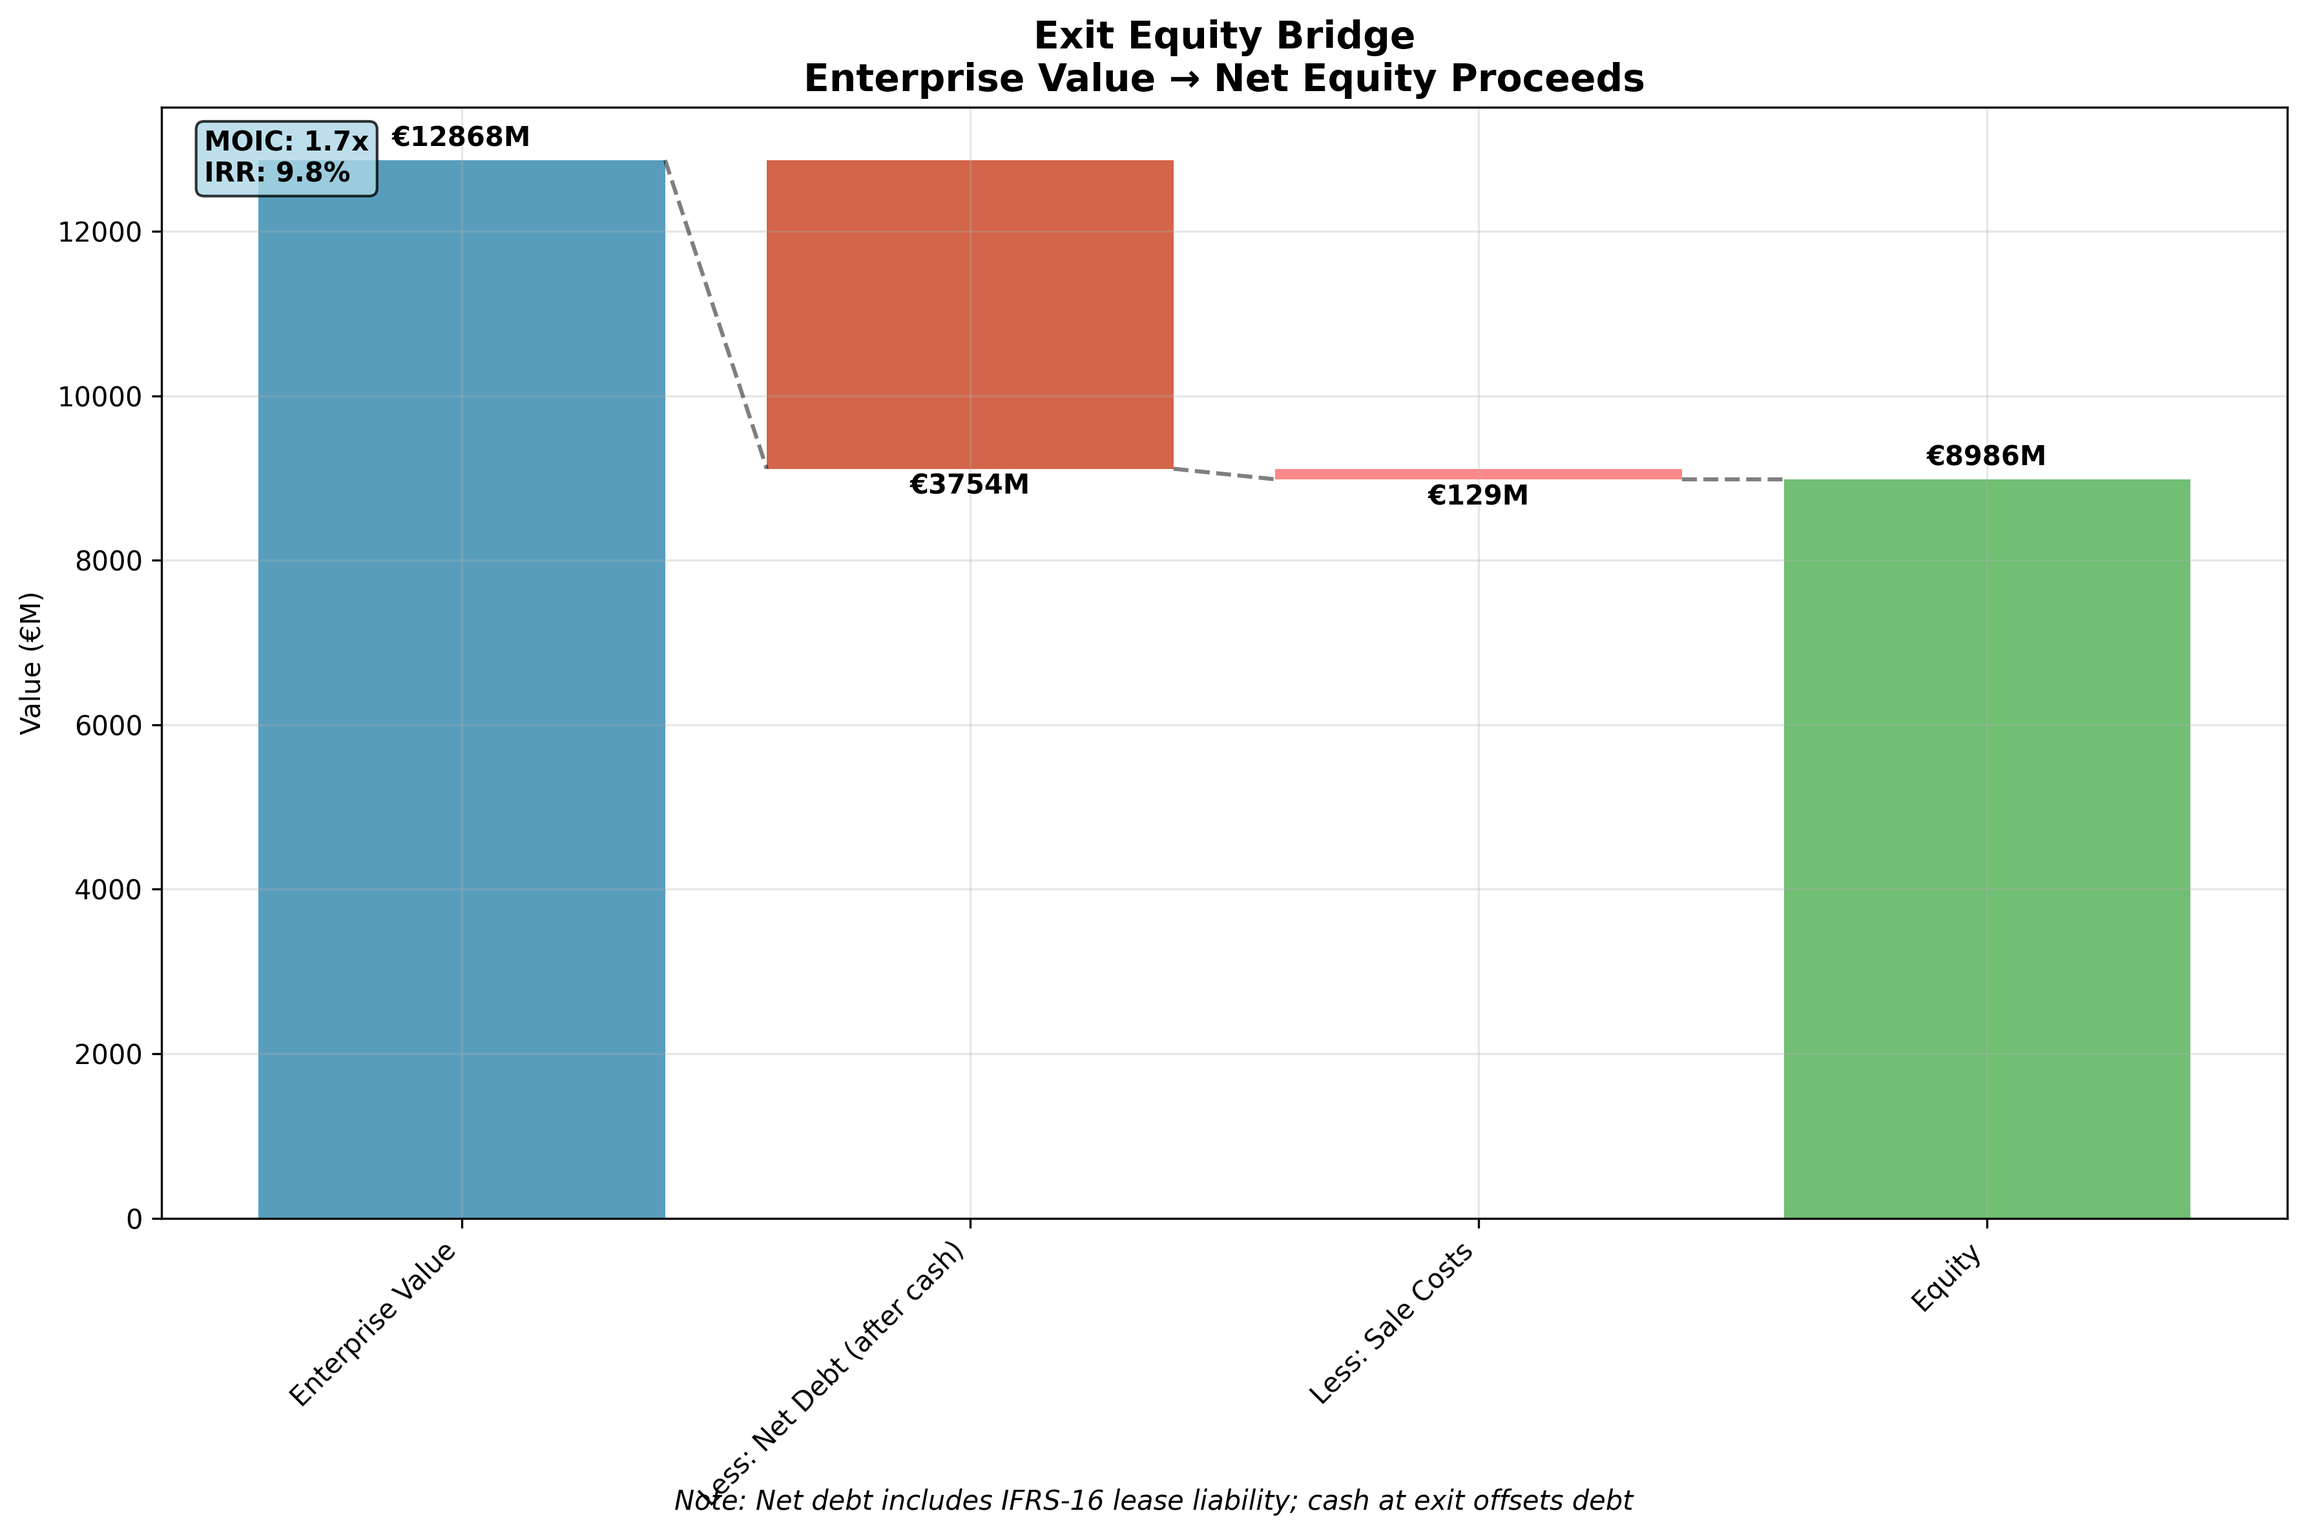
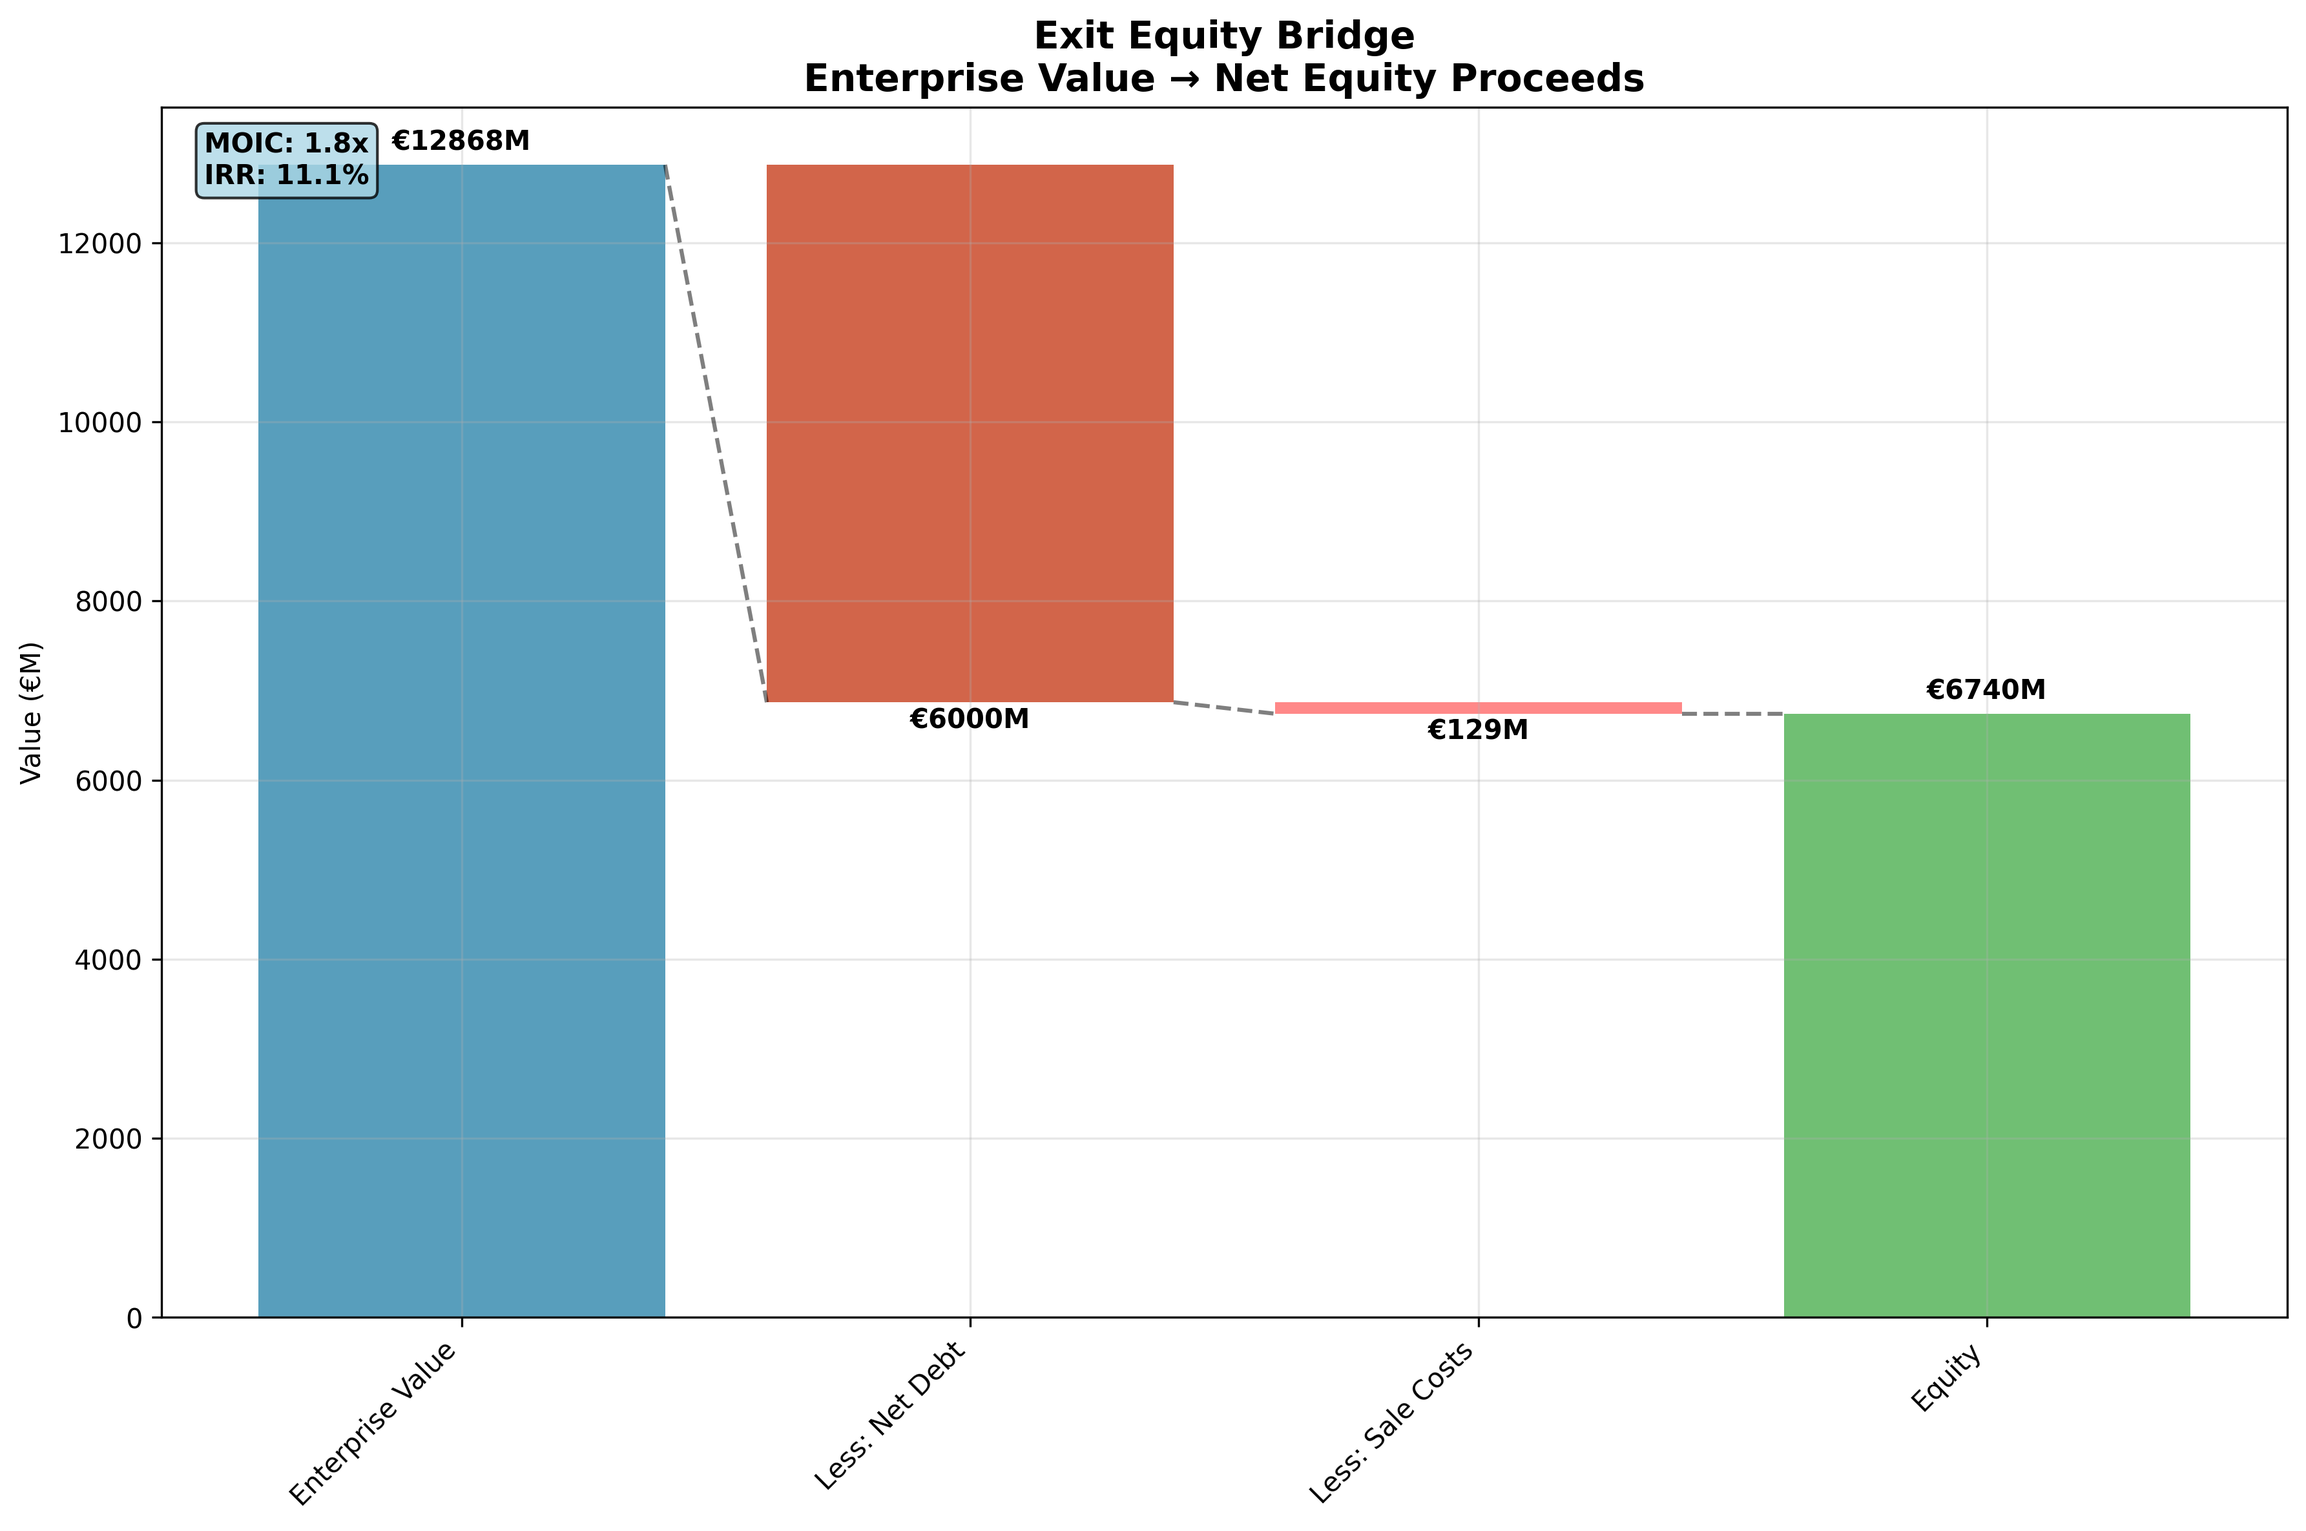
reverted to stable version

diff --git a/src/modules/orchestrator_advanced.py b/src/modules/orchestrator_advanced.py
@@ -1086,7 +1086,7 @@ def plot_covenant_headroom(
             linestyle="--",
             label=f"Covenant: {a.leverage_hurdle:.1f}x",
         )
-    ax2.set_title("Net Debt / EBITDA")
+    ax2.set_title("Leverage (Net Debt / EBITDA)")
     ax2.set_ylabel("Net Debt/EBITDA (x)")
     ax2.legend()
     ax2.grid(True, alpha=0.3)
@@ -1114,18 +1114,11 @@ def plot_covenant_headroom(
     leverage_headroom = a.leverage_hurdle - metrics["Max_LTV"]
     fcf_headroom = metrics["Min_FCF_Coverage"] - a.fcf_hurdle
 
-    # Traffic light colors and breach detection
+    # Traffic light colors
     def format_headroom(value, is_good):
         color = "🟢" if value >= 0 else "🔴"
         sign = "+" if value >= 0 else ""
         return f"{color} {sign}{value:.1f}x"
-    
-    # Check for FCF breach
-    fcf_breach = metrics["Min_FCF_Coverage"] < a.fcf_hurdle
-    if fcf_breach:
-        fcf_label = "FCF Coverage (monitor) ≥"  # Clarify as monitoring metric
-    else:
-        fcf_label = "FCF Coverage ≥"
 
     summary_data = [
         ["Covenant", "Observed", "Requirement", "Headroom"],
@@ -1142,7 +1135,7 @@ def plot_covenant_headroom(
             format_headroom(leverage_headroom, True),
         ],
         [
-            fcf_label,  # 👈 Dynamic label with breach warning
+            "FCF Coverage ≥",
             f"{metrics['Min_FCF_Coverage']:.1f}x",
             f"{a.fcf_hurdle:.1f}x",
             format_headroom(fcf_headroom, True),
@@ -1714,27 +1707,12 @@ def run_deterministic_stress_scenario(a: DealAssumptions) -> Dict:
 
 def build_equity_cf_vector(results: Dict, a: DealAssumptions) -> list[float]:
     """
-    ✨ VP Fix: Build equity cash flow vector using S&U sponsor equity as initial investment
-    Ensures IRR/MOIC tie to Sources & Uses exactly
+    ✨ VP Fix: Build equity cash flow vector from actual model output
+    No hard-coded zeros - read actual Equity CF from each year
     """
-    # Calculate sponsor equity using same logic as S&U (balancing item)
-    ebitda0 = a.revenue0 * a.ebitda_margin_start
-    enterprise_value = a.entry_ev_ebitda * ebitda0
-    senior_debt = enterprise_value * a.debt_pct_of_ev * a.senior_frac
-    mezz_debt = enterprise_value * a.debt_pct_of_ev * a.mezz_frac
-    
-    # Total uses = purchase price + fees + cash
-    purchase_price = enterprise_value
-    deal_fees = enterprise_value * a.entry_fees_pct
-    oid_discount = (senior_debt + mezz_debt) * 0.02
-    financing_fees = (senior_debt + mezz_debt) * 0.035
-    cash_balance = a.min_cash
-    total_uses = purchase_price + deal_fees + oid_discount + financing_fees + cash_balance
-    
-    # Sponsor equity is the balancing item (same as S&U)
-    sponsor_equity = total_uses - (senior_debt + mezz_debt)
-    
-    vec = [-sponsor_equity]  # Initial investment ties to S&U
+    # Initial equity investment
+    eq0 = (a.entry_ev_ebitda * (a.revenue0 * a.ebitda_margin_start)) * (1 - a.debt_pct_of_ev)
+    vec = [-eq0]
     
     # Annual equity cash flows
     for y in range(1, a.years + 1):
@@ -1750,7 +1728,7 @@ def build_equity_cf_vector(results: Dict, a: DealAssumptions) -> list[float]:
 
 def compute_exit_bridge(results: Dict, a: DealAssumptions) -> Dict:
     """
-    ✅ VP Fix: Use net debt minus cash, explicit ordering with clear labels
+    ✅ VP Fix: Use net debt minus cash, explicit ordering
     """
     yrN = results[f"Year {a.years}"]
     ebitda_exit = yrN["EBITDA"]
@@ -1763,7 +1741,7 @@ def compute_exit_bridge(results: Dict, a: DealAssumptions) -> Dict:
     
     return {
         "Enterprise Value": ev_exit,
-        "Less: Net Debt (after cash)": -net_debt,  # 👈 Clear label
+        "Less: Net Debt": -net_debt,
         "Less: Sale Costs": -txn_costs,
         "Equity": equity_exit,
     }
@@ -1828,10 +1806,6 @@ def plot_exit_equity_bridge(results: Dict, metrics: Dict, a: DealAssumptions,
            transform=ax.transAxes, va='top', ha='left',
            bbox=dict(boxstyle='round', facecolor='lightblue', alpha=0.8),
            fontweight='bold')
-    
-    # Add footnote about net debt calculation
-    fig.text(0.5, 0.02, 'Note: Net debt includes IFRS-16 lease liability; cash at exit offsets debt', 
-             ha='center', fontsize=10, style='italic')
     
     plt.xticks(rotation=45, ha='right')
     plt.tight_layout()
@@ -1950,39 +1924,30 @@ def print_enhanced_monte_carlo_footer(mc_results: Dict, a: DealAssumptions) -> N
     print(f"  • Covenant Breach Rate: {100-mc_results['Success_Rate']*100:.1f}%")
 
 
-def plot_sources_and_uses(a: DealAssumptions, out_path: str = "sources_uses.png") -> float:
+def plot_sources_and_uses(a: DealAssumptions, out_path: str = "sources_uses.png") -> None:
     """
     Create Sources & Uses waterfall chart for IC presentation
-    ✅ VP Fix: Sponsor Equity as balancing item - Sources = Uses exactly
+    ✅ VP Fix: Leases and RCF are NOT cash sources at entry
     """
     # Calculate S&U components
     ebitda0 = a.revenue0 * a.ebitda_margin_start
     enterprise_value = a.entry_ev_ebitda * ebitda0
     
-    # Debt financing
+    # Sources - Only actual cash funding sources
     senior_debt = enterprise_value * a.debt_pct_of_ev * a.senior_frac
     mezz_debt = enterprise_value * a.debt_pct_of_ev * a.mezz_frac
+    sponsor_equity = enterprise_value - (senior_debt + mezz_debt)  # Leases are not a cash source
     
-    # Uses - Everything we need to fund
-    purchase_price = enterprise_value
+    # Uses
+    equity_purchase = enterprise_value
     deal_fees = enterprise_value * a.entry_fees_pct
     oid_discount = (senior_debt + mezz_debt) * 0.02  # 2% OID
     financing_fees = (senior_debt + mezz_debt) * 0.035  # 3.5% fees
     cash_balance = a.min_cash
     
-    total_uses = purchase_price + deal_fees + oid_discount + financing_fees + cash_balance
-    
-    # Sources - Sponsor Equity is the balancing item
-    sponsor_equity = total_uses - (senior_debt + mezz_debt)  # 👈 Balancing item
-    total_sources = senior_debt + mezz_debt + sponsor_equity
-    
     fig, (ax1, ax2) = plt.subplots(1, 2, figsize=(14, 8))
     
-    # Add subtitle showing reconciliation
-    fig.text(0.5, 0.92, f'Sources = €{total_sources:.0f}M | Uses = €{total_uses:.0f}M (reconcile)', 
-             ha='center', fontsize=12, style='italic', color='darkgreen')
-    
-    # Sources chart
+    # Sources chart - Only cash sources
     sources_labels = ['Senior Debt', 'Mezzanine', 'Sponsor Equity']
     sources_values = [senior_debt, mezz_debt, sponsor_equity]
     colors_sources = ['#2E86AB', '#A23B72', '#4CAF50']
@@ -1996,8 +1961,8 @@ def plot_sources_and_uses(a: DealAssumptions, out_path: str = "sources_uses.png"
         ax1.text(v + 50, i, f'€{v:.0f}M', va='center', fontweight='bold')
     
     # Uses chart
-    uses_labels = ['Purchase Price', 'Deal Fees', 'OID Discount', 'Financing Fees', 'Cash to B/S']
-    uses_values = [purchase_price, deal_fees, oid_discount, financing_fees, cash_balance]
+    uses_labels = ['Equity Purchase', 'Deal Fees', 'OID Discount', 'Financing Fees', 'Cash']
+    uses_values = [equity_purchase, deal_fees, oid_discount, financing_fees, cash_balance]
     colors_uses = ['#1f77b4', '#ff7f0e', '#2ca02c', '#d62728', '#9467bd']
     
     ax2.barh(uses_labels, uses_values, color=colors_uses)
@@ -2008,20 +1973,20 @@ def plot_sources_and_uses(a: DealAssumptions, out_path: str = "sources_uses.png"
     for i, v in enumerate(uses_values):
         ax2.text(v + 50, i, f'€{v:.0f}M', va='center', fontweight='bold')
     
-    # Add reconciled totals header
-    fig.suptitle(f'Sources & Uses Analysis - Totals Reconcile\nSources: €{total_sources:.0f}M | Uses: €{total_uses:.0f}M', 
+    # Add totals and reconciliation check
+    total_sources = sum(sources_values)
+    total_uses = sum(uses_values)
+    
+    fig.suptitle(f'Sources & Uses Analysis\nSources: €{total_sources:.0f}M | Uses: €{total_uses:.0f}M', 
                 fontsize=16, fontweight='bold')
     
-    # Add footnote about leases and reconciliation
-    fig.text(0.5, 0.02, 'Note: Net debt includes IFRS-16 lease liability; leases are not a funding source. Totals reconcile.', 
+    # Add footnote about leases
+    fig.text(0.5, 0.02, 'Note: Net debt includes IFRS-16 lease liability; leases are not a funding source', 
              ha='center', fontsize=10, style='italic')
     
     plt.tight_layout()
     plt.savefig(out_path, dpi=300, bbox_inches='tight')
     plt.close()
-    
-    # Return sponsor equity for use in IRR calculation
-    return sponsor_equity
 
 
 def plot_exit_equity_bridge_enhanced(results: Dict, metrics: Dict, a: DealAssumptions, 
@@ -2123,8 +2088,6 @@ def plot_deleveraging_path(metrics: Dict, a: DealAssumptions,
     ax.set_xlabel('Year')
     ax.set_ylabel('Net Debt/EBITDA (x)')
     ax.set_ylim(0, max(leverage_series) * 1.2)
-    ax.set_xticks(years)
-    ax.set_xticklabels([f'Y{y}' for y in years])  # Y1, Y2, Y3, Y4, Y5 labels
     ax.grid(True, alpha=0.3)
     ax.legend()
     

diff --git a/README.md b/README.md
@@ -21,14 +21,8 @@ python orchestrator_advanced.py
 
 **Interactive Web App:**
 ```bash
-streamlit run src/modules/streamlit_app.py
+streamlit run streamlit_app.py
 ```
-
-**Quick Monte Carlo (200 scenarios):**
-Set MC scenarios to 200 in sidebar for fast testing
-
-**Full Monte Carlo (400 scenarios):**
-Set MC scenarios to 400 in sidebar for production runs
 
 ### Generated Outputs
 All analysis files are automatically saved to the `output/` folder:
@@ -48,9 +42,8 @@ All analysis files are automatically saved to the `output/` folder:
 
 ### Advanced Analytics
 - **Sensitivity Analysis**: IRR vs **Terminal EBITDA Margin (±400 bps)** and **Exit Multiple (±1.0×)**
-- **Monte Carlo**: **Quick MC (200)** vs **Full MC (400)** scenarios (configurable), with printed priors and success rule:
+- **Monte Carlo**: **400** scenarios (configurable), with printed priors and success rule:
   σ(growth)=±150 bps, σ(margin)=±200 bps, σ(multiple)=±0.5×; success = no covenant breach + positive exit equity + IRR ≥ 8%
-  *Note: PDF and demo use same engine - results never diverge*
 - **Deterministic Stress**: Named downside with four outputs (IRR, trough ICR, max ND/EBITDA, Breach Y/N)
 - **Equity Cash-Flow Vector**: IRR computed from the exact equity vector printed in the PDF
 
@@ -68,7 +61,6 @@ lbo-stack/
 ├── src/modules/
 │   ├── orchestrator_advanced.py         # Main LBO model
 │   ├── lbo_model.py                     # Core financial modeling
-│   ├── streamlit_app.py                 # Interactive web application
 │   └── fund_waterfall.py               # Fund economics and waterfall
 ├── data/
 │   ├── accor_assumptions.csv           # Model assumptions
@@ -81,7 +73,7 @@ lbo-stack/
 │   ├── monte_carlo.png                 # Monte Carlo simulation results
 │   ├── sensitivity_heatmap.png         # Sensitivity analysis heatmap
 │   └── sources_uses.png               # Sources & uses of funds
-├── streamlit_app.py                    # Legacy entry point (use src/modules/streamlit_app.py)
+├── streamlit_app.py                    # Interactive web application
 ├── requirements.txt                     # Python dependencies
 └── README.md                           # This documentation
 ```
@@ -138,16 +130,13 @@ Sources and uses of funds at transaction entry:
 - Transaction costs allocation
 - Total use of funds summary
 
-### 💻 Interactive Web App (`src/modules/streamlit_app.py`)
+### 💻 Interactive Web App (`streamlit_app.py`)
 Professional Streamlit application featuring:
-- **True User Control**: Form-based inputs with parameterized caching - changes actually drive results
-- **Real-time LBO Analysis**: Every adjustment triggers live model recalculation with authentic metrics
-- **Advanced Debt Structure Controls**: Configure senior/mezzanine tranches, rates, and covenant levels
-- **Interactive Monte Carlo**: Configure scenarios (200/400/1000+) with customizable volatility priors
-- **Live Covenant Dashboard**: Real covenant monitoring with breach detection and headroom visualization
-- **One-click PDF generation**: Produces identical report to CLI version with current assumptions
-- **Professional KPI Display**: Live IRR, MOIC, leverage metrics with color-coded covenant status
-- **Enhanced User Experience**: VP/IC-ready presentation quality with organized sidebar controls
+- **Real-time assumption testing**: Adjust entry/exit multiples, leverage, covenants
+- **Live covenant monitoring**: Watch ICR and Net Debt/EBITDA move with assumptions
+- **Interactive Monte Carlo**: Configure scenarios (100/200/400) with reproducible seeds
+- **One-click PDF generation**: Produces the exact same report as CLI version
+- **Professional KPI dashboard**: IRR, MOIC, covenant status with visual indicators
 
 ## 🔧 Customization
 
@@ -179,8 +168,7 @@ Edit `data/accor_assumptions.csv` to modify:
 - **Equity cash-flow vector** printed and reconciled to IRR
 - Reproducible: one command regenerates the exact PDF; RNG seed pinned
 - Unit tests for IRR monotonicity and equity-vector reconciliation
-- **Interactive Streamlit app** transforms from static dashboard to dynamic user-controlled cockpit
-- **VP/IC-ready presentation quality** with professional polish and real-time covenant monitoring
+- **Interactive Streamlit app** for live scenario testing and covenant monitoring
 
 ## 🏗 Technical Details
 
